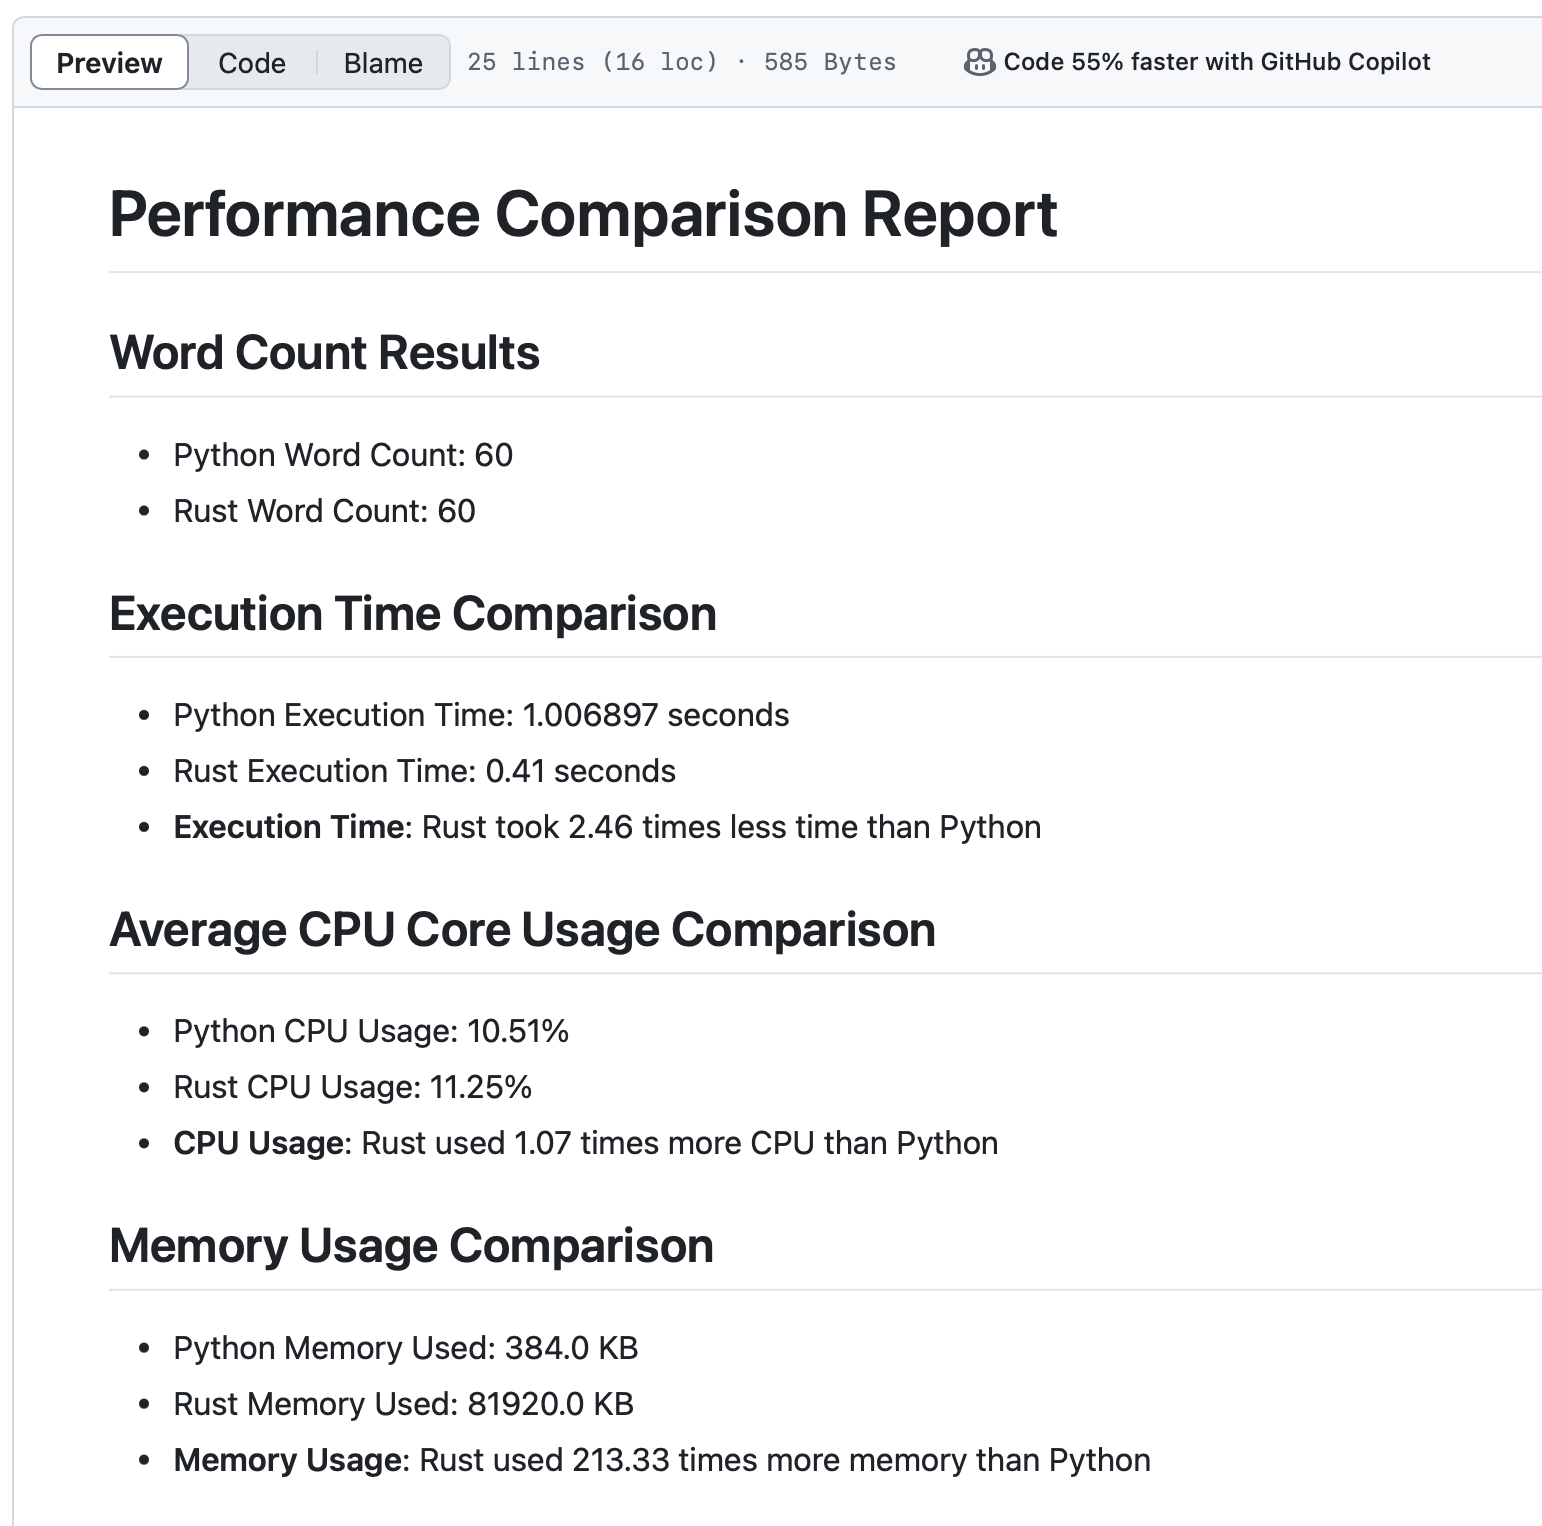
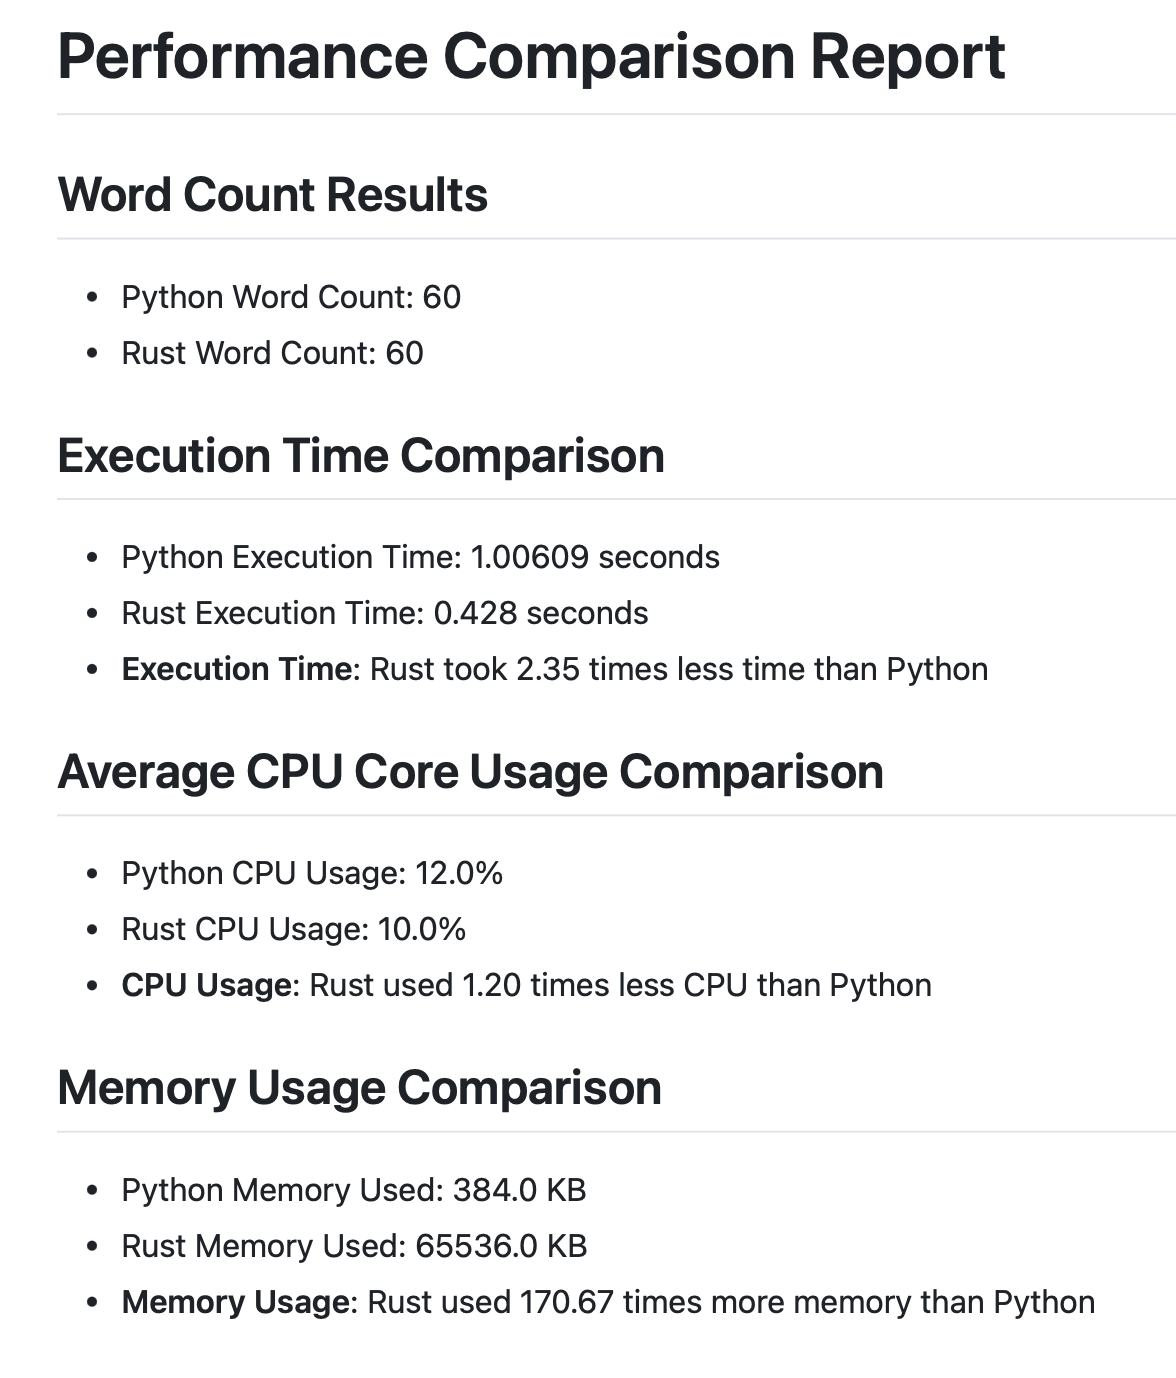
report screenshot

diff --git a/performance_report.md b/performance_report.md
@@ -7,19 +7,19 @@
 
 ## Execution Time Comparison
 
-- Python Execution Time: 1.00291 seconds
-- Rust Execution Time: 0.33 seconds
-- **Execution Time**: Rust took 3.04 times less time than Python
+- Python Execution Time: 1.00609 seconds
+- Rust Execution Time: 0.428 seconds
+- **Execution Time**: Rust took 2.35 times less time than Python
 
 ## Average CPU Core Usage Comparison
 
-- Python CPU Usage: 2.7%
-- Rust CPU Usage: 0.0%
-- **CPU Usage**: Rust used significantly less CPU compared to Python
+- Python CPU Usage: 12.0%
+- Rust CPU Usage: 10.0%
+- **CPU Usage**: Rust used 1.20 times less CPU than Python
 
 ## Memory Usage Comparison
 
-- Python Memory Used: 0.25 KB
-- Rust Memory Used: 0.0 KB
-- **Memory Usage**: Rust used significantly less memory compared to Python
+- Python Memory Used: 384.0 KB
+- Rust Memory Used: 65536.0 KB
+- **Memory Usage**: Rust used 170.67 times more memory than Python
 
